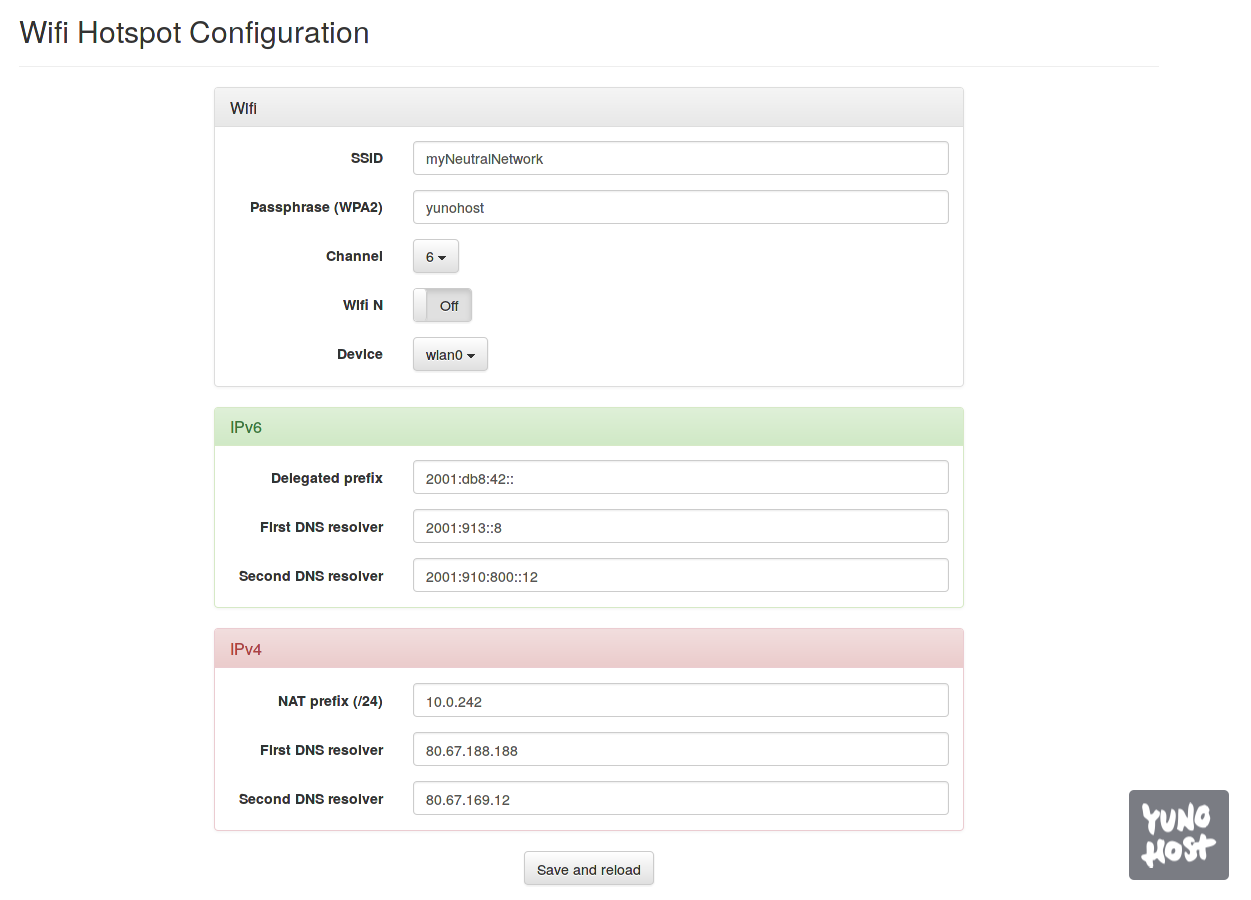
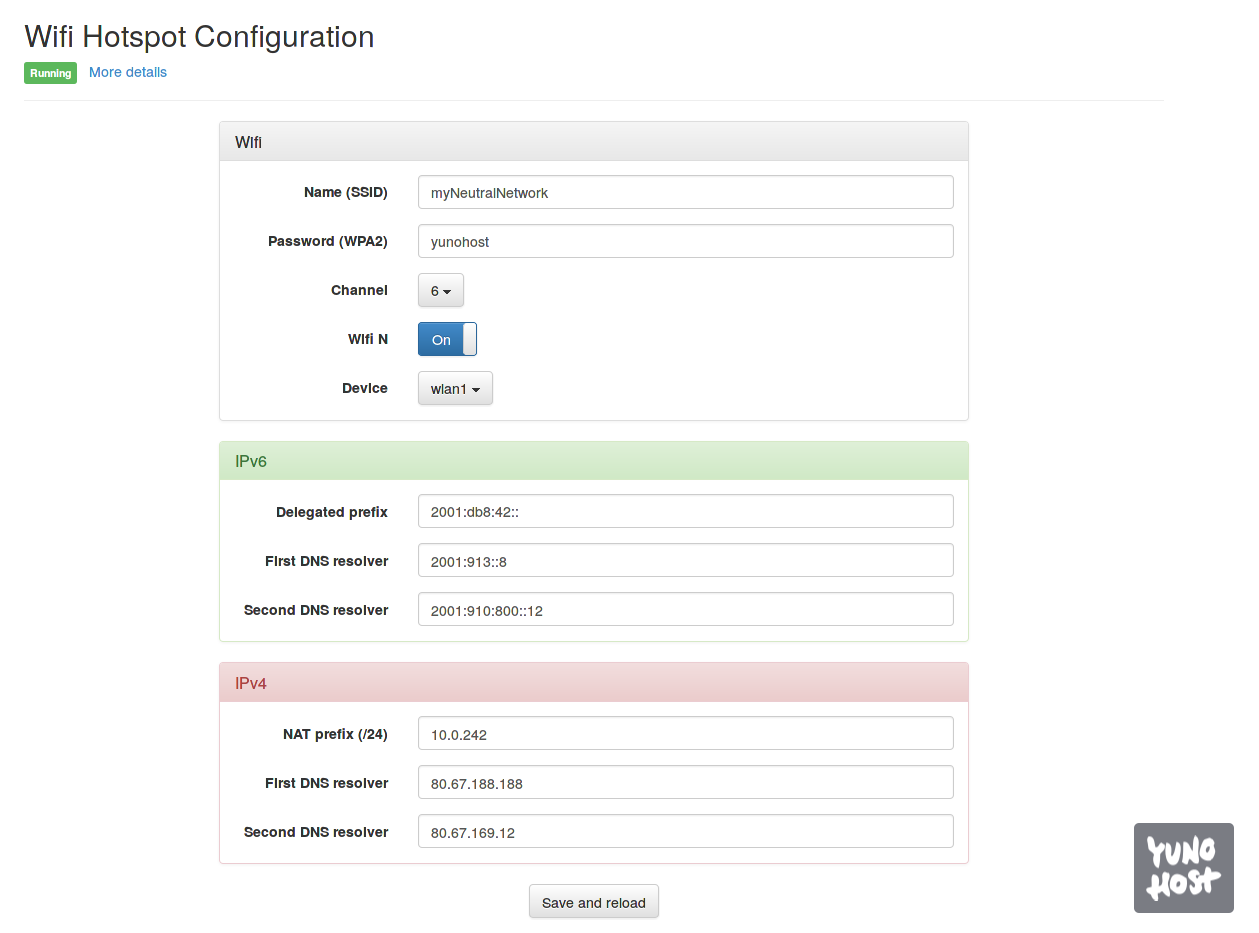
Add service status on the web admin

diff --git a/sources/public/js/custom.js b/sources/public/js/custom.js
@@ -28,4 +28,25 @@ $(document).ready(function() {
   });
 
   $('.switch').bootstrapToggle();
+
+  $('#save').click(function() {
+    $(this).prop('disabled', true);
+    $('#save-loading').show();
+  });
+
+  $('#status .close').click(function() {
+    $(this).parent().hide();
+  });
+
+  $('#statusbtn').click(function() {
+    $('#status-loading').show();
+
+    $.ajax({
+      url: '?/status',
+    }).done(function(data) {
+      $('#status-loading').hide();
+      $('#status-text').html('<ul>' + data + '</ul>');
+      $('#status').show('slow');
+    });
+  });
 });

diff --git a/sources/public/css/style.css b/sources/public/css/style.css
@@ -1,0 +1,36 @@
+li.status-info {
+  color: #5BC0DE;
+}
+
+li.status-warning {
+  color: #D9534F;
+}
+
+li.status-danger {
+  color: #D9534F;
+}
+
+li.status-success {
+  color: #5CB85C;
+}
+
+img#status-loading {
+  display: none;
+  padding-right: 5px;
+}
+
+img#save-loading {
+  display: none;
+  margin-left: 5px;
+}
+
+div#status {
+  display: none;
+  margin-top: 10px;
+}
+
+div#status ul {
+  list-style-type: none;
+  padding: 0;
+  margin: 0;
+}

diff --git a/sources/controller.php b/sources/controller.php
@@ -18,6 +18,18 @@ function start_service() {
   return $retcode;
 }
 
+function service_status() {
+  exec('sudo service ynh-hotspot status', $output);
+
+  return $output;
+}
+
+function service_faststatus() {
+  exec('sudo service hostapd status', $output, $retcode);
+
+  return $retcode;
+}
+
 function ipv6_expanded($ip) {
   exec('ipv6_expanded '.escapeshellarg($ip), $output);
 
@@ -33,7 +45,7 @@ function ipv6_compressed($ip) {
 dispatch('/', function() {
   exec('sudo iwconfig', $devs);
   $wifi_device = moulinette_get('wifi_device');
-  $devs_list = "";
+  $devs_list = '';
 
   foreach($devs AS $dev) {
     if(preg_match('/802.11/', $dev)) {
@@ -60,6 +72,7 @@ dispatch('/', function() {
   set('ip4_nat_prefix', moulinette_get('ip4_nat_prefix'));
   set('ip4_dns0', moulinette_get('ip4_dns0'));
   set('ip4_dns1', moulinette_get('ip4_dns1'));
+  set('faststatus', service_faststatus() == 0);
 
   return render('settings.html.php');
 });
@@ -163,6 +176,28 @@ dispatch_put('/settings', function() {
 
   redirect:
   redirect_to('/');
+});
+
+dispatch('/status', function() {
+  $status_lines = service_status();
+  $status_list = '';
+
+  foreach($status_lines AS $status_line) {
+    if(preg_match('/^\[INFO\]/', $status_line)) {
+      $status_list .= "<li class='status-info'>${status_line}</li>";
+    }
+    elseif(preg_match('/^\[OK\]/', $status_line)) {
+      $status_list .= "<li class='status-success'>${status_line}</li>";
+    }
+    elseif(preg_match('/^\[WARN\]/', $status_line)) {
+      $status_list .= "<li class='status-warning'>${status_line}</li>";
+    }
+    elseif(preg_match('/^\[ERR\]/', $status_line)) {
+      $status_list .= "<li class='status-danger'>${status_line}</li>";
+    }
+  }
+
+  echo $status_list;
 });
 
 dispatch('/lang/:locale', function($locale = 'en') {

diff --git a/sources/views/settings.html.php b/sources/views/settings.html.php
@@ -1,4 +1,16 @@
 <h2><?= T_("Wifi Hotspot Configuration") ?></h2>
+<?php if($faststatus): ?>
+  <span class="label label-success" data-toggle="tooltip" data-title="<?= T_('This is a fast status. Click on More details to show the complete status.') ?>"><?= T_('Running') ?></span>
+<?php else: ?>
+  <span class="label label-danger" data-toggle="tooltip" data-title="<?= T_('This is a fast status. Click on More details to show the complete status.') ?>"><?= T_('Not Running') ?></span>
+<?php endif; ?>
+
+ &nbsp; <img src="public/img/loading.gif" id="status-loading" alt="Loading..." /><a href="#" id="statusbtn" data-toggle="tooltip" data-title="<?= T_('Loading complete status may take a few minutes. Be patient.') ?>"><?= T_('More details') ?></a>
+
+<div id="status" class="alert alert-dismissible alert-info fade in" style="margin-top: 10px" role="alert">
+  <button type="button" class="close"><span aria-hidden="true">&times;</span><span class="sr-only">Close</span></button>
+  <div id="status-text"></div>
+</div>
 
 <hr />
 
@@ -142,7 +154,7 @@
 
       <div class="form-group">
         <div style="text-align: center">
-          <button type="submit" class="btn btn-default" data-toggle="tooltip" data-title="<?= T_('Reloading may take a few minutes. Be patient.') ?>"><?= T_('Save and reload') ?></button>
+          <button type="submit" class="btn btn-default" data-toggle="tooltip" id="save" data-title="<?= T_('Reloading may take a few minutes. Be patient.') ?>"><?= T_('Save and reload') ?></button> <img src="public/img/loading.gif" id="save-loading" alt="Loading..." />
         </div>
       </div>
     </form>
